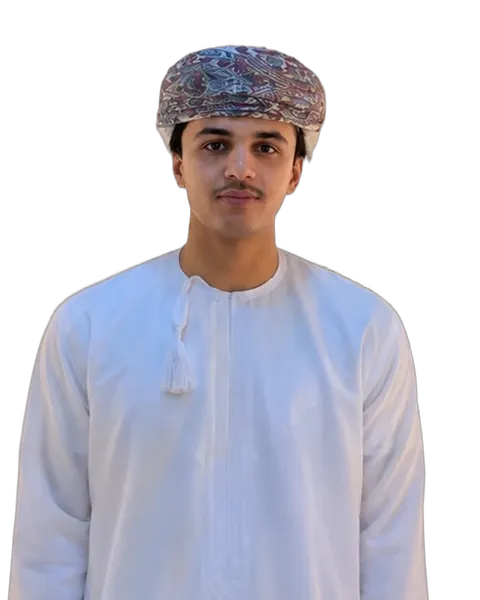
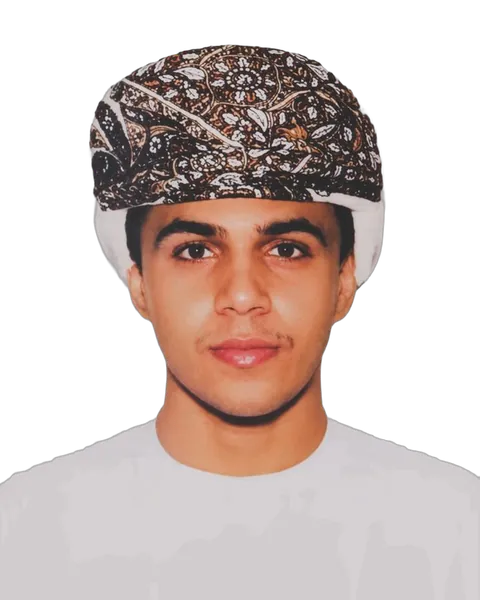
New photo for Anas
Claude-Session: https://claude.ai/code/session_01UqYfgUVQ71Z2mj6btitSC8

diff --git a/src/content/team.ts b/src/content/team.ts
@@ -9,7 +9,7 @@ export type Member = {
 export const TEAM: Member[] = [
   { id: 'fatma', photo: '/team/fatma.webp' },
   { id: 'anaum', photo: '/team/anaum.webp' },
-  { id: 'anas', photo: '/team/anas.webp' },
+  { id: 'anas', photo: '/team/anas.webp?v=2' },
   { id: 'ibtisam', photo: '/team/ibtisam.webp' },
   { id: 'ahmed', photo: '/team/ahmed.webp' },
   { id: 'abdulaziz', photo: '/team/abdulaziz.webp' },
